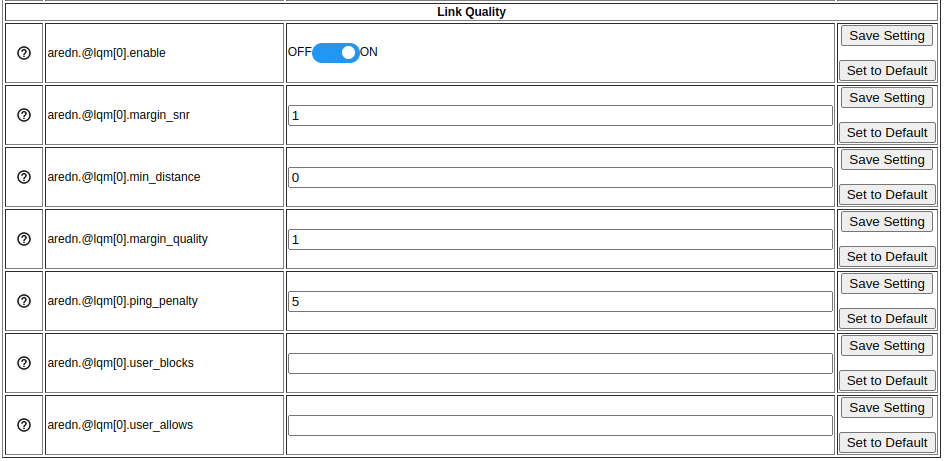
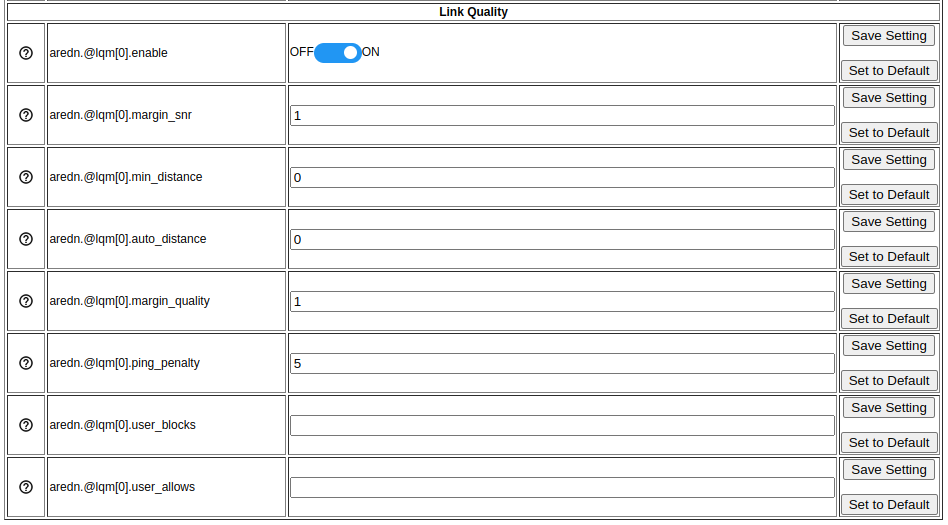
add spectral view to WiFi Scan section (#175)
* add spectral view to WiFi Scan section

* update scan screenshot

* eliminate "signal" from spectral view description

* include new auto distance Adv Config setting

* correct typo

* clarify wording

Changed region(s): [[0.0, 0.0, 1.0, 1.0]]

diff --git a/arednGettingStarted/node_status.rst b/arednGettingStarted/node_status.rst
@@ -25,7 +25,7 @@ Neighbor Status
   If you have *Link Quality Manager* (LQM) enabled, you will also see a button which takes you to the **Neighbor Status** display. LQM is enabled/disabled from the **Advanced Configuration** page, and the settings for LQM are described in the **Configuration Deep Dive** section. The basic settings for *Link Quality Manager* are described below. The theory behind its operation is discussed in the AREDN |trade| *Link Quality Manager* section of the **How-To Guide**.
 
 WiFi Scan
-   Displays a list of other 802.11 signals that your node can see. The 802.11 signals may include Access Points, neighbor nodes, and other mesh networks (foreign ad-hoc networks).  WiFi Scan only finds devices on the same channel width as your node is configured to.  When installing at a new location, it is best practice to scan on 5, 10, and 20MHz channels to find all 802.11 signals in range.  This information will help to pick a channel clear of other interference.  When multiple ad-hoc networks are visible (with different SSIDs or channels), the ID of each 802.11 ad-hoc *network* is displayed but not the individual nodes. There is also an automatic scan mode, but running a Wifi Scan continuously is not recommended, particularly if the node is actively routing traffic.  The scan is passive, or only listens for other beacons through all channels, and risks loss of data on the assigned channel.  Wifi Scan does not transmit probes on every channel in passive mode, thus no risk of interfering with Radar stations on DFS channels, or other unintended transmissions.  Multiple attempts of Wifi Scan will be necessary to find all devices in range.
+   Displays a list of other 802.11 signals within range of your node. The 802.11 signals may include Access Points, neighbor nodes, and other mesh networks (foreign ad-hoc networks). WiFi Scan is described in more detail below.
 
 Setup
    Navigates to the **Setup** pages for your node. You will need to supply a username and password to access those pages. The username is always ``root``, while the password is the one you set during initial node setup. If the node has not yet been configured, the password is ``hsmm``.
@@ -131,6 +131,21 @@ Status
   - *disconnected*: This RF Neighbor is no longer online.
 
 The *Neighbor Status* table will be refreshed automatically every minute as LQM evaluates your node's radio links on an ongoing basis. Links whose quality has improved may be activated, while links whose quality has worsened may be blocked. If an existing node link goes offline, it will age out of the list within about an hour. To refresh the neighbor list on demand you can click the **Refresh** button. If you want to return to the *Node Status* display, click the **Quit** button.
+
+WiFi Scan
+---------
+
+**WiFi Scan** initiates a passive scan for Wifi signals that are within range, but it only reports devices on the same channel width as your node. When installing a node at a new location it is best practice to scan on 5, 10, and 20MHz channel widths to find all 802.11 signals in range. This information will help you to pick a channel clear of other interference. When multiple ad-hoc networks are visible (using different SSIDs or channels), the ID of each 802.11 ad-hoc *network* is displayed but not the individual nodes.
+
+There is also an automatic scan mode, but running a Wifi Scan continuously is not recommended, particularly if the node is actively routing traffic. The scan is passive and only listens for other beacons through all channels, but there is a risk of data loss on the assigned channel. Wifi Scan does not transmit probes on every channel in passive mode, so there is no risk of interfering with Radar stations on DFS channels or other unintended transmissions. Multiple attempts of Wifi Scan may be necessary to find all devices in range.
+
+Below the scan results there is a Spectral View of RF energy detected during the scan. This may be useful for visualizing a clear channel for your node.
+
+.. image:: _images/wifi-scan.png
+   :alt: WiFi Scan
+   :align: center
+
+|
 
 AREDN |trade| Alert Messages
 ----------------------------

diff --git a/arednGettingStarted/advanced_config.rst b/arednGettingStarted/advanced_config.rst
@@ -498,6 +498,9 @@ Link Quality Manager (LQM) Settings
   Minimum Distance
     The minimum distance (in meters) that must exist between nodes in order for a link to be considered for activation. The default value is 0 meters. This value can be increased if you do not want your node to pass traffic with nearby nodes, for example at a tower site with collocated backbone nodes designed to link only with other distant nodes.
 
+  Auto Distance
+    The distance (in meters) to use when the actual distance between nodes cannot be calculated from their GPS coordinates. The default value is zero, which causes the node to use the "Auto Distance" feature discussed in the *Mesh RF* section above.
+
   Quality Margin
     The margin above the *Minimum Quality* that must be detected in order for a node to be returned to the active list based on quality. The default value is 1 percent.
 
